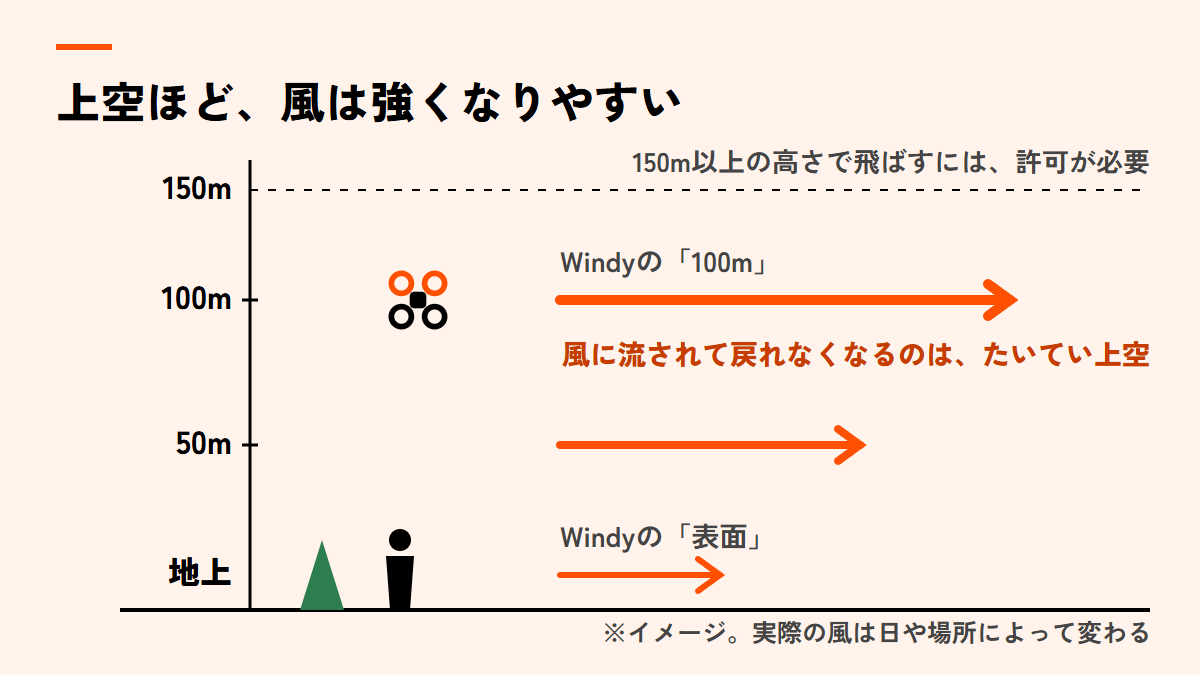
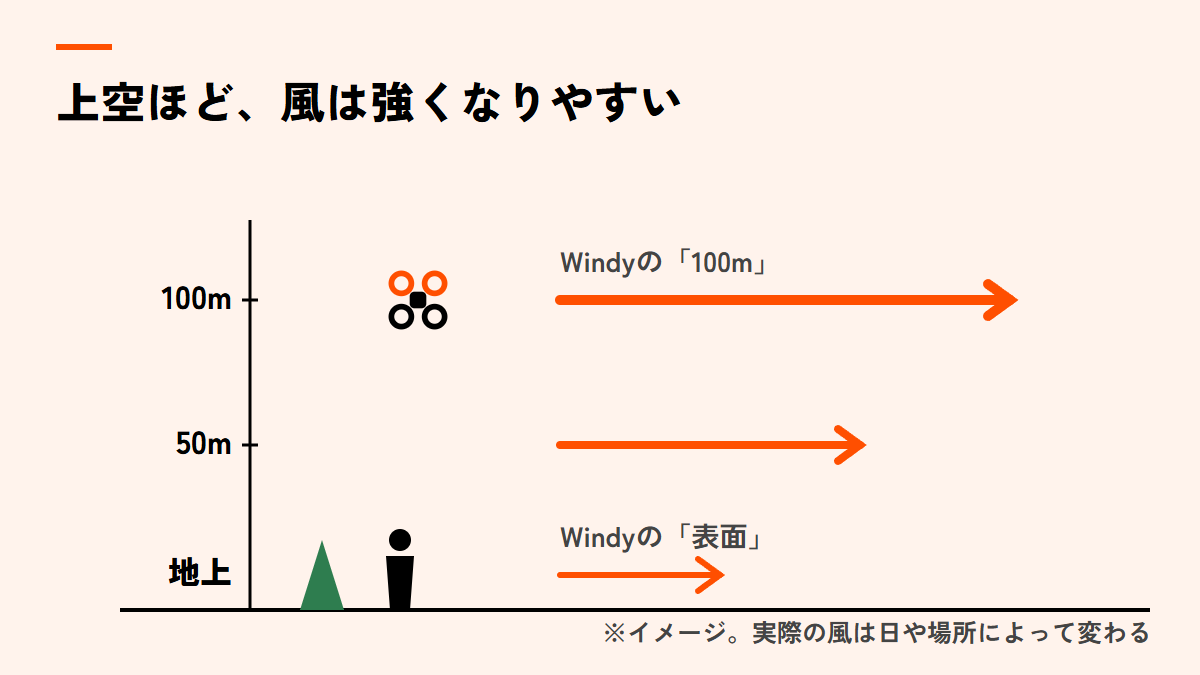
空のアプリのコラムを書き直し、公開URLの記述を更新

Changed region(s): [[0.4625, 0.4978, 0.9558, 0.56], [0.5242, 0.2178, 0.9558, 0.28], [0.1233, 0.2489, 0.2158, 0.3111]]

diff --git a/_thumbs/sky-info-apps-radar.html b/_thumbs/sky-info-apps-radar.html
@@ -1,0 +1,53 @@
+<!doctype html>
+<html lang="ja"><head><meta charset="utf-8">
+<link rel="stylesheet" href="https://fonts.googleapis.com/css2?family=Zen+Kaku+Gothic+New:wght@500;700;900&display=block">
+<style>
+html,body{margin:0}
+.c{position:relative;width:1200px;height:675px;overflow:hidden;background:#FFF3EC;font-family:"Zen Kaku Gothic New",sans-serif;color:#000}
+.ttl{position:absolute;left:56px;top:44px;font-weight:900;font-size:44px;letter-spacing:.02em}
+.ttl::before{content:"";display:block;width:56px;height:6px;background:#FF4F00;margin-bottom:18px}
+.note{position:absolute;right:48px;bottom:26px;font-weight:700;font-size:25px;color:#444}
+svg text{font-family:"Zen Kaku Gothic New",sans-serif}
+</style></head><body>
+<div class="c">
+  <div class="ttl">飛行機の位置が、地図に出るしくみ</div>
+  <svg width="1200" height="675" style="position:absolute;inset:0">
+    <!-- 地面 -->
+    <line x1="0" y1="560" x2="1200" y2="560" stroke="#000" stroke-width="4"/>
+    <!-- ① 飛行機と電波 -->
+    <g transform="translate(150 175) scale(4.2)" fill="#000"><path d="M21 15.5v-1.8l-8-5V4a1.5 1.5 0 0 0-3 0v4.7l-8 5v1.8l8-2.5v4.6l-2 1.5V21l3.5-1 3.5 1v-1.4l-2-1.5V13l8 2.5Z"/></g>
+    <g transform="translate(200 290) rotate(75)" stroke="#FF4F00" stroke-width="5" stroke-linecap="round" fill="none"><path d="M30 -18a36 36 0 0 1 0 36"/><path d="M52 -32a62 62 0 0 1 0 64"/><path d="M74 -46a88 88 0 0 1 0 92"/></g>
+    <text x="300" y="215" font-size="28" font-weight="900">① 飛行機が、位置などを</text>
+    <text x="300" y="252" font-size="28" font-weight="900">電波で発信</text>
+    <!-- ② 受信機 -->
+    <g transform="translate(240 560)" stroke="#000" stroke-width="5" stroke-linecap="round" fill="none"><path d="M0 0V-70"/><path d="M-26 0L0 -50L26 0"/><circle cx="0" cy="-78" r="9" fill="#FF4F00" stroke="none"/><path d="M-22 -96a30 30 0 0 1 44 0" stroke-width="4"/></g>
+    <text x="160" y="610" font-size="28" font-weight="900">② 地上の受信機</text>
+    <!-- ③ Flightradar24 -->
+    <path d="M300 470H440" stroke="#000" stroke-width="5" stroke-linecap="round"/>
+    <path d="M424 456L442 470L424 484" stroke="#000" stroke-width="5" fill="none" stroke-linecap="round" stroke-linejoin="round"/>
+    <rect x="456" y="420" width="250" height="100" rx="18" fill="#000"/>
+    <text x="581" y="466" text-anchor="middle" font-size="27" font-weight="900" fill="#fff">③ Flightradar24</text>
+    <text x="581" y="500" text-anchor="middle" font-size="22" font-weight="700" fill="#fff">情報を集めて地図に</text>
+    <path d="M720 470H800" stroke="#000" stroke-width="5" stroke-linecap="round"/>
+    <path d="M784 456L802 470L784 484" stroke="#000" stroke-width="5" fill="none" stroke-linecap="round" stroke-linejoin="round"/>
+    <!-- ④ スマホ -->
+    <rect x="816" y="370" width="110" height="190" rx="16" fill="#fff" stroke="#000" stroke-width="5"/>
+    <rect x="830" y="392" width="82" height="140" rx="4" fill="#FFE1D1"/>
+    <g transform="translate(846 420) scale(1.5)" fill="#FF4F00"><path d="M21 15.5v-1.8l-8-5V4a1.5 1.5 0 0 0-3 0v4.7l-8 5v1.8l8-2.5v4.6l-2 1.5V21l3.5-1 3.5 1v-1.4l-2-1.5V13l8 2.5Z"/></g>
+    <circle cx="890" cy="500" r="5" fill="#000"/>
+    <text x="871" y="610" text-anchor="middle" font-size="28" font-weight="900">④ スマホの地図</text>
+    <!-- 映らないことがある：山の陰の低いヘリ -->
+    <path d="M940 560L1030 360L1120 560Z" fill="#2E7D4F"/>
+    <path d="M1128 488L1020 452" stroke="#FF4F00" stroke-width="4" stroke-dasharray="6 9" stroke-linecap="round"/>
+    <g stroke="#C73C00" stroke-width="6" stroke-linecap="round"><path d="M998 432l26 26M1024 432l-26 26"/></g>
+    <g transform="translate(1150 500) scale(.8)" stroke="#000" stroke-width="4" stroke-linecap="round" fill="none">
+      <path d="M-34 -22H34"/><path d="M0 -22V-10"/>
+      <ellipse cx="0" cy="2" rx="22" ry="14" fill="#000"/><path d="M20 2H54"/><path d="M54 -8V10"/>
+      <path d="M-14 22H16" />
+    </g>
+    <text x="1180" y="190" text-anchor="end" font-size="25" font-weight="900" fill="#C73C00">低い高度や山の陰の機体は、</text>
+    <text x="1180" y="226" text-anchor="end" font-size="25" font-weight="900" fill="#C73C00">電波が届きにくく</text>
+    <text x="1180" y="262" text-anchor="end" font-size="25" font-weight="900" fill="#C73C00">映らないことがある</text>
+  </svg>
+  <div class="note"></div>
+</div></body></html>

diff --git a/_thumbs/sky-info-apps-height.html b/_thumbs/sky-info-apps-height.html
@@ -12,11 +12,8 @@ svg text{font-family:"Zen Kaku Gothic New",sans-serif}
 <div class="c">
   <div class="ttl">上空ほど、風は強くなりやすい</div>
   <svg width="1200" height="675" style="position:absolute;inset:0">
-    <line x1="250" y1="160" x2="250" y2="610" stroke="#000" stroke-width="3"/>
+    <line x1="250" y1="220" x2="250" y2="610" stroke="#000" stroke-width="3"/>
     <line x1="120" y1="610" x2="1150" y2="610" stroke="#000" stroke-width="4"/>
-    <line x1="250" y1="190" x2="1150" y2="190" stroke="#000" stroke-width="2" stroke-dasharray="8 10"/>
-    <text x="232" y="199" text-anchor="end" font-size="32" font-weight="900">150m</text>
-    <text x="1150" y="172" text-anchor="end" font-size="27" font-weight="700" fill="#444">150m以上の高さで飛ばすには、許可が必要</text>
     <text x="232" y="584" text-anchor="end" font-size="32" font-weight="900">地上</text>
     <g stroke="#FF4F00" stroke-width="6" stroke-linecap="round" fill="none"><path d="M560 575H720"/><path d="M698 559L720 575L698 591"/></g>
     <text x="560" y="547" font-size="28" font-weight="700" fill="#444">Windyの「表面」</text>
@@ -30,7 +27,6 @@ svg text{font-family:"Zen Kaku Gothic New",sans-serif}
     <svg x="380" y="262" width="76" height="76" viewBox="0 0 32 32"><circle cx="9" cy="9" r="4.2" fill="none" stroke="#FF4F00" stroke-width="2.4"/><circle cx="23" cy="9" r="4.2" fill="none" stroke="#FF4F00" stroke-width="2.4"/><circle cx="9" cy="23" r="4.2" fill="none" stroke="#000" stroke-width="2.4"/><circle cx="23" cy="23" r="4.2" fill="none" stroke="#000" stroke-width="2.4"/><rect x="12.5" y="12.5" width="7" height="7" rx="2" fill="#000"/></svg>
     <g fill="#000"><circle cx="400" cy="540" r="11"/><path d="M386 556h28l-4 54h-20z"/></g>
     <g fill="#2E7D4F"><path d="M300 610l22-70 22 70z"/></g>
-    <text x="1150" y="365" text-anchor="end" font-size="28" font-weight="900" fill="#C73C00">風に流されて戻れなくなるのは、たいてい上空</text>
   </svg>
   <div class="note">※イメージ。実際の風は日や場所によって変わる</div>
 </div></body></html>

diff --git a/_thumbs/sky-info-apps.html b/_thumbs/sky-info-apps.html
@@ -9,7 +9,7 @@ html,body{margin:0}
 .ic svg{width:56px;height:56px}
 .body{position:absolute;left:0;right:0;top:50%;transform:translateY(-50%);text-align:center}
 .label{display:inline-block;background:#000;color:#fff;font-weight:700;font-size:24px;letter-spacing:.06em;padding:8px 22px;border-radius:999px;margin-bottom:24px}
-h1{margin:0;font-weight:900;font-size:62px;line-height:1.3;letter-spacing:.02em}
+h1{margin:0;font-weight:900;font-size:76px;line-height:1.3;letter-spacing:.02em}
 .sub{margin-top:22px;font-weight:700;font-size:28px;letter-spacing:.04em}
 .brand{position:absolute;left:44px;bottom:36px;display:flex;align-items:center;gap:12px;font-weight:900;font-size:26px}
 </style></head><body>
@@ -50,9 +50,9 @@ h1{margin:0;font-weight:900;font-size:62px;line-height:1.3;letter-spacing:.02em}
   </div>
 
   <div class="body">
-    <span class="label">コラム ／ 飛ばし方</span>
-    <h1>飛ばす前に空をチェック。<br>風・雨雲・飛行機が分かる<br>3つのアプリ</h1>
-    <p class="sub">Windy／気象庁「雨雲の動き」／Flightradar24</p>
+    <span class="label">コラム ／ 空の知識</span>
+    <h1>頭の上の空を、<br>のぞいてみよう</h1>
+    <p class="sub">飛行機・風・雨雲が見える3つのアプリ</p>
   </div>
 
   <div class="brand">
